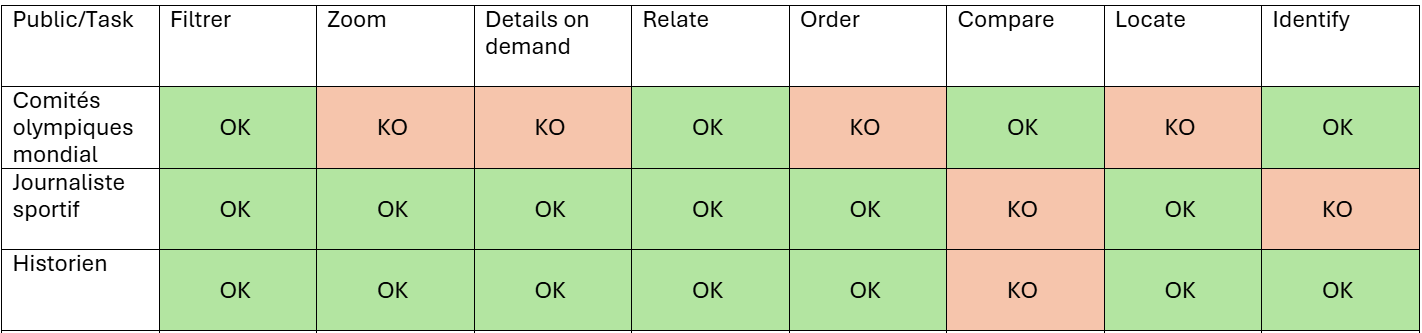
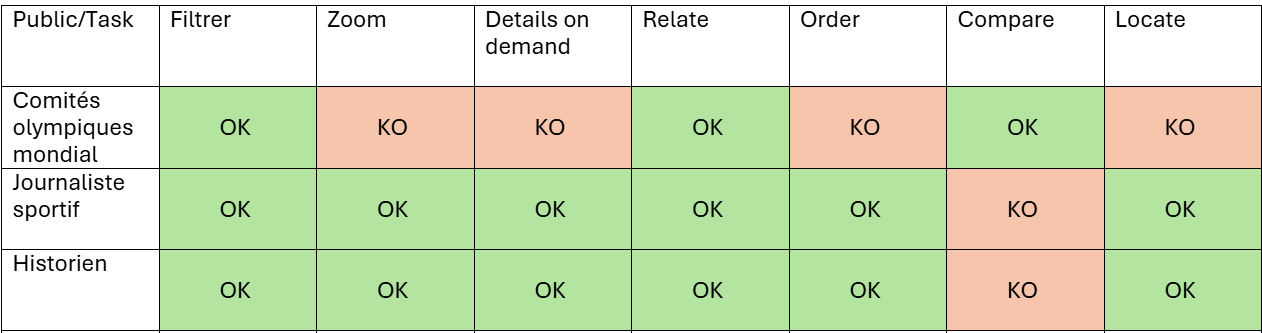
Enhance README and HTML files with additional datasets and styling improvements; update JavaScript for country flag emojis and athlete data handling.

diff --git a/front/Rose_de_Nightingale/nightingaleRose.js b/front/Rose_de_Nightingale/nightingaleRose.js
@@ -19,9 +19,39 @@ const countriesList = d3.select("#countries-list");
 const tooltip = d3.select("#tooltip");
 
 function getCountryFlagEmoji(code) {
-    if (!code || code.length !== 2) return '🏳';
-    const codePoints = code.toUpperCase().split('').map(c => 127397 + c.charCodeAt(0));
-    return String.fromCodePoint(...codePoints);
+    const countryCodeMap = {
+        'USA': 'US', 'GBR': 'GB', 'FRA': 'FR', 'GER': 'DE', 'ITA': 'IT',
+        'ESP': 'ES', 'NED': 'NL', 'BEL': 'BE', 'SWE': 'SE', 'NOR': 'NO',
+        'RUS': 'RU', 'CHN': 'CN', 'JPN': 'JP', 'IND': 'IN', 'BRA': 'BR',
+        'CAN': 'CA', 'AUS': 'AU', 'MEX': 'MX', 'ARG': 'AR', 'KOR': 'KR',
+        'POL': 'PL', 'UKR': 'UA', 'TUR': 'TR', 'GRE': 'GR', 'POR': 'PT',
+        'CZE': 'CZ', 'HUN': 'HU', 'ROU': 'RO', 'BUL': 'BG', 'SRB': 'RS',
+        'CRO': 'HR', 'SVN': 'SI', 'SVK': 'SK', 'AUT': 'AT', 'CHE': 'CH',
+        'DEN': 'DK', 'FIN': 'FI', 'ISL': 'IS', 'IRL': 'IE', 'ZAF': 'ZA',
+        'EGY': 'EG', 'MAR': 'MA', 'TUN': 'TN', 'KEN': 'KE', 'NGR': 'NG',
+        'ISR': 'IL', 'SAU': 'SA', 'PAK': 'PK', 'BGD': 'BD', 'THA': 'TH',
+        'MYS': 'MY', 'SGP': 'SG', 'IDN': 'ID', 'PHL': 'PH', 'VIE': 'VN',
+        'NZL': 'NZ', 'FIJ': 'FJ', 'CUB': 'CU', 'JAM': 'JM', 'DOM': 'DO',
+        'TTO': 'TT', 'BAH': 'BS', 'BER': 'BM', 'URY': 'UY', 'PAR': 'PY',
+        'CHL': 'CL', 'COL': 'CO', 'PER': 'PE', 'VEN': 'VE', 'ECU': 'EC',
+        'BOL': 'BO', 'GUY': 'GY', 'SUR': 'SR', 'PUR': 'PR',
+        'AZE': 'AZ', 'KAZ': 'KZ', 'UZB': 'UZ', 'TKM': 'TM', 'KGZ': 'KG',
+        'ETH': 'ET', 'NGA': 'NG', 'CIV': 'CI', 'GRN': 'GD', 'KEN': 'KE',
+        'TAJ': 'TJ', 'GEO': 'GE', 'ARM': 'AM',
+
+        'ALG': 'DZ', 'QAT': 'QA', 'NER': 'NE', 'GRD': 'GD', 'TJK': 'TJ',
+        'IRN': 'IR', 'JOR': 'JO', 'XKX': 'XK', 'BDI': 'BI', 'BLR': 'BY',
+        'TWN': 'TW', 'MNG': 'MN', 'BHR': 'BH', 'LTU': 'LT', 'EST': 'EE'
+    };
+
+    const isoCode = countryCodeMap[code];
+    if (!isoCode) return '🏳';
+
+    return isoCode
+        .toUpperCase()
+        .split('')
+        .map(char => String.fromCodePoint(127397 + char.charCodeAt(0)))
+        .join('');
 }
 
 function getPopulationCategory(pop) {
@@ -46,6 +76,7 @@ function getCategoryColor(cat) {
 function getCountriesData(year, season, continent) {
     const countryData = new Map();
     const participatingAthletes = new Map();
+    const allAthletes = new Map();
 
     athleteData.forEach(d => {
         if (+d.Year !== year) return;
@@ -65,9 +96,15 @@ function getCountriesData(year, season, continent) {
                 silver: 0,
                 bronze: 0,
                 total: 0,
+                totalAthletes: 0,
                 population: nocPopulation.get(`${noc}_${year}`) || 0
             });
         }
+
+        if (!allAthletes.has(noc)) {
+            allAthletes.set(noc, new Set());
+        }
+        allAthletes.get(noc).add(d.ID);
 
         if (!participatingAthletes.has(noc)) {
             participatingAthletes.set(noc, new Set());
@@ -84,6 +121,7 @@ function getCountriesData(year, season, continent) {
     const result = [];
     countryData.forEach(country => {
         country.total = participatingAthletes.get(country.noc).size;
+        country.totalAthletes = allAthletes.get(country.noc) ? allAthletes.get(country.noc).size : 0;
         const totalMedals = country.gold + country.silver + country.bronze;
         country.medalRatio = country.total > 0 ? (totalMedals / country.total) * 100 : 0;
         country.popCategory = getPopulationCategory(country.population);
@@ -102,7 +140,7 @@ function drawCountriesList(countries) {
         .attr("class", "country-item")
         .classed("selected", d => selectedCountries.includes(d.noc))
         .html(d => {
-            const flag = getCountryFlagEmoji(d.noc.substring(0, 2).toLowerCase());
+            const flag = getCountryFlagEmoji(d.noc);
             const medals = d.gold + d.silver + d.bronze;
             return `<div class="country-flag">${flag}</div>
                         <div class="country-name" title="${d.name}">${d.name}</div>
@@ -177,27 +215,6 @@ function drawNightingaleRose(countries) {
         });
     });
 
-    const rings = [5, 10, 15, 20, 25, 30, 35, 40, 45, 50, 55, 60, 65, 70, 75, 80, 85, 90, 95];
-
-    rings.forEach(pct => {
-        const r = (pct / 100) * maxRadius;
-        g.append("circle")
-            .attr("r", r)
-            .attr("fill", "none")
-            .attr("stroke", "#e2e8f0")
-            .attr("stroke-width", 0.3)
-            .attr("stroke-dasharray", "1,1");
-
-        if (pct % 10 === 0) {
-            g.append("text")
-                .attr("x", r + 4)
-                .attr("y", -4)
-                .attr("font-size", "7px")
-                .attr("fill", "#cbd5e0")
-                .attr("font-weight", "600")
-                .text(`${pct}%`);
-        }
-    });
 
     const arc = d3.arc()
         .innerRadius(0)
@@ -225,7 +242,8 @@ function drawNightingaleRose(countries) {
                 .html(`<strong>${d.name}</strong><br/>
 Population: ${(d.population / 1e6).toFixed(1)}M (${d.popLabel})<br/>
 🥇 Or: ${d.gold} | 🥈 Silver: ${d.silver} | 🥉 Bronze: ${d.bronze}<br/>
-Total: ${d.medals} médailles sur ${d.total} athlètes<br/>
+Médailles: ${d.medals}<br/>
+Athlètes participants: ${d.totalAthletes}<br/>
 Réussite: ${d.medalRatio.toFixed(2)}%`);
         })
         .on("mousemove", function(e) {
@@ -262,6 +280,7 @@ Réussite: ${d.medalRatio.toFixed(2)}%`);
             .attr("class", "rose-label")
             .attr("x", x)
             .attr("y", y)
+            .attr("dy", "0.3em")
             .attr("text-anchor", "middle")
             .attr("font-size", "8px")
             .attr("font-weight", "600")

diff --git a/front/map_choropleth/map.html b/front/map_choropleth/map.html
@@ -1,4 +1,3 @@
-
 <!DOCTYPE html>
 <html lang="fr">
 <head>
@@ -6,14 +5,14 @@
     <title>Carte Choroplèthe - Médailles Olympiques</title>
     <script src="https://d3js.org/d3.v6.js"></script>
     <style>
-        body { 
-            margin: 0; 
-            font-family: 'Segoe UI', Tahoma, Geneva, Verdana, sans-serif; 
-            overflow: hidden; 
+        body {
+            margin: 0;
+            font-family: 'Segoe UI', Tahoma, Geneva, Verdana, sans-serif;
+            overflow: hidden;
             background: #f5f5f5;
         }
-        #my_dataviz { 
-            display: block; 
+        #my_dataviz {
+            display: block;
             background-color: #ffffff;
             border-radius: 0;
         }
@@ -288,7 +287,7 @@
             font-weight: 700;
             box-sizing: border-box;
         }
-
+ 
         /* Bottom-right info panel */
         #info-panel {
             position: fixed;
@@ -313,9 +312,9 @@
             border-bottom: 1px solid #ecf0f1;
             padding-bottom: 8px;
         }
-        #info-panel .row { 
-            display: flex; 
-            justify-content: space-between; 
+        #info-panel .row {
+            display: flex;
+            justify-content: space-between;
             margin: 6px 0;
             padding: 4px 0;
             border-bottom: 1px solid #f8f9fa;
@@ -323,14 +322,14 @@
         #info-panel .row:last-child {
             border-bottom: none;
         }
-        #info-panel .label { 
-            color: #7f8c8d; 
+        #info-panel .label {
+            color: #7f8c8d;
             font-weight: 500;
             font-size: 12px;
         }
-        #info-panel .value { 
-            font-weight: 600; 
-            color: #2980b9; 
+        #info-panel .value {
+            font-weight: 600;
+            color: #2980b9;
         }
     </style>
 </head>
@@ -339,11 +338,11 @@
         <h1>Médailles Olympiques par Pays</h1>
         <p>Ratio médailles / population (1896-2016)</p>
     </div>
-
+ 
     <svg id="my_dataviz"></svg>
-
+ 
     <div id="tooltip"></div>
-
+ 
     <div id="info-panel">
         <h4 id="info-country">Pays: —</h4>
         <div class="row"><span class="label">Édition:</span><span class="value" id="info-edition">—</span></div>
@@ -353,7 +352,7 @@
         <div class="row"><span class="label">Participants:</span><span class="value" id="info-participants">—</span></div>
         <div class="row"><span class="label">Ratio Médaille/Pop (100k):</span><span class="value" id="info-ratio">—</span></div>
     </div>
-
+ 
     <div class="controls">
         <div class="control-row">
             <label for="yearSlider">Année:</label>
@@ -372,12 +371,12 @@
             </div>
         </div>
     </div>
-
+ 
     <div class="legend" id="legend">
         <h4>Ratio Médaille / Population</h4>
         <!-- Legend items will be populated by JS -->
     </div>
-
+ 
     <div id="bar-charts-container">
         <h3 id="country-bar-chart-title">Statistiques du pays</h3>
         <div class="chart-row">
@@ -393,8 +392,7 @@
             </div>
         </div>
     </div>
-
+ 
     <script type="module" src="map.JS"></script>
 </body>
 </html>
-

diff --git a/front/Rose_de_Nightingale/nightingale.html b/front/Rose_de_Nightingale/nightingale.html
@@ -4,11 +4,13 @@
     <meta charset="utf-8">
     <title>Analyse Olympique - Rose de Nightingale</title>
     <script src="https://d3js.org/d3.v7.min.js"></script>
+    <script src="https://cdn.jsdelivr.net/npm/country-flag-emoji@1.5.9/index.min.js"></script>
     <style>
         * {
             margin: 0;
             padding: 0;
             box-sizing: border-box;
+            font-size: 20px;
         }
 
         body {
@@ -109,7 +111,7 @@
             font-weight: 700;
             color: #2d3748;
             margin-bottom: 8px;
-            font-size: 0.9em;
+            font-size: 17px;
             border-bottom: 2px solid #667eea;
             padding-bottom: 6px;
             flex-shrink: 0;
@@ -121,6 +123,7 @@
             display: flex;
             flex-direction: column;
             gap: 2px;
+            font-size: 27px;
         }
 
         .country-item {
@@ -231,6 +234,7 @@
             background: #f7fafc;
             border-radius: 6px;
             border: 1px solid #e2e8f0;
+            font-size: 27px;
         }
 
         .filter-group:first-child {
@@ -320,7 +324,7 @@
             color: white;
             padding: 8px 10px;
             border-radius: 5px;
-            font-size: 0.8em;
+            font-size: 13px;
             pointer-events: none;
             opacity: 0;
             transition: opacity 0.15s;
@@ -383,7 +387,7 @@
         <div id="controls-section">
             <div class="control-row">
                 <span class="control-label">📅</span>
-                <input type="range" id="timeline" min="1896" max="2016" value="2016" step="4">
+                <input type="range" id="timeline" min="1900" max="2016" value="2016" step="4">
                 <div id="year-display">2016</div>
             </div>
         </div>

diff --git a/README.md b/README.md
@@ -18,16 +18,49 @@ Existe-t-il une corrélation entre le nombre d'habitant/le nombre de participati
 | Order              | Trier les pays par ratio  |
 | Compare            | Comparer la proportion pour un pays et la moyenne global    |
 | Locate             | Par pays   |
-| Identify           | Un intervalle  par population   |
 
 
 ## Publics ciblés:
 
 1. **Commités Internationals des Jeux olympiques** qui cherchent à prouver que chaque nation, peut-importe sa taille a la possibilité de gagner des médailles. 
 2. **Journalistes sportifs** qui souhaitent analyser sous un angle différents le nombre de victoires de chaque nation, en les mettant à l'échelle de la population des pays et du nombre de participants par édition.
-3. **Historien** qui souhaitent analyser les évolutions au cours de l'histoire des Jeux Olympiques à travers différents critères comme la proportion de victoire entre hommes et femmes, ou la quantité de médailles par épreuve pour chaque pays.
+3. **Historien** qui souhaitent analyser les évolutions au cours de l'histoire des Jeux Olympiques à travers différents critères comme le type et le nombre de médailles pour chaque pays.
  
 Tâches par types d'utilisateurs: ![](image/TasksByUser.png)
+
+# Datasets utilisés dans le projet
+
+## 1. Dataset Jeux Olympiques (1900-2016)
+
+| ID | Name | Sex | Age | Height | Weight | Team | **NOC** | Games | **Year** | **Season** | City | Sport | Event | **Medal** |
+|---|---|---|---|---|---|---|---|---|---|---|---|---|---|---|
+| 1 | A Dijiang | M | 24 | 180 | 80 | China | **CHN** | 1992 Summer | **1992** | **Summer** | Barcelona | Basketball | Basketball Men's Basketball | **(vide)** |
+| 4 | Edgar Lindenau Aabye | M | 34 | 195 | 90 | Denmark/Sweden | **DEN** | 1900 Summer | **1900** | **Summer** | Paris | Tug-Of-War | Tug-Of-War Men's | **Gold** |
+| 15 | John Smith | M | 28 | 175 | 70 | United States | **USA** | 1992 Summer | **1992** | **Summer** | Barcelona | Athletics | 4x100m Relay Men | **Gold** |
+| 16 | Michael Johnson | M | 25 | 178 | 72 | United States | **USA** | 1992 Summer | **1992** | **Summer** | Barcelona | Athletics | 4x100m Relay Men | **Gold** |
+| 17 | Carl Lewis | M | 31 | 188 | 80 | United States | **USA** | 1992 Summer | **1992** | **Summer** | Barcelona | Athletics | 4x100m Relay Men | **Gold** |
+| 18 | Dennis Mitchell | M | 27 | 175 | 68 | United States | **USA** | 1992 Summer | **1992** | **Summer** | Barcelona | Athletics | 4x100m Relay Men | **Gold** |
+| 234 | Aleksandr Ivanov | M | 26 | 182 | 78 | Soviet Union | **URS** | 1988 Winter | **1988** | **Winter** | Calgary | Ice Hockey | Ice Hockey Men | **Gold** |
+| 567 | Vladimir Petrov | M | 29 | 185 | 83 | Russia | **RUS** | 1994 Winter | **1994** | **Winter** | Lillehammer | Ice Hockey | Ice Hockey Men | **(vide)** |
+
+**Colonnes conservées** : NOC, Year, Season, Medal, ID, Event
+
+## 2. Dataset Population mondiale (-10000-2100)
+
+| Entity | **Code** | **Year** | **Population (historical)** | Continent |
+|---|---|---|---|---|
+| Afghanistan | **AFG** | **1900** | **4,707,744** | Asia |
+| Afghanistan | **AFG** | **1992** | **14,889,000** | Asia |
+| Afghanistan | **AFG** | **2016** | **34,656,032** | Asia |
+| China | **CHN** | **1992** | **1,164,970,000** | Asia |
+| Denmark | **DNK** | **1900** | **2,450,000** | Europe |
+| Soviet Union | **(absent)** | **1988** | **(absent)** | **(absent)** |
+| Russia | **RUS** | **1994** | **148,394,000** | Europe |
+| United States | **USA** | **1850** | **23,261,000** | North America |
+| United States | **USA** | **1992** | **256,894,000** | North America |
+| United States | **USA** | **2020** | **331,003,000** | North America |
+
+**Colonnes conservées** : Code, Year, Population (historical), Continent
 
 # Visualisation de Romain Brochet
 
